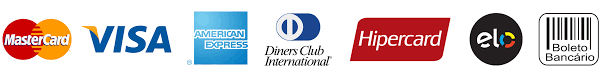
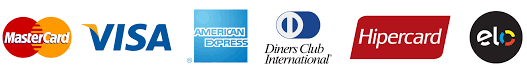
up code

diff --git a/src/useCases/sales/RegisterSale.tsx b/src/useCases/sales/RegisterSale.tsx
@@ -5,7 +5,7 @@ import { TProduct, TItens } from "../products/type/TProducts";
 import { currencyFormat } from "../../components/utils/currentFormat/CurrentFormat";
 import { Dashboard } from "../dashboard/Dashboard";
 import { postList } from "../../services/handleService";
-import api from "../../services/api/api";
+// import api from "../../services/api/api";
 
 export function RegisterSale() {
     const [product, setProduct] = useState<TItens>(
@@ -18,7 +18,7 @@ export function RegisterSale() {
     const [totalItens, setTotalItens] = useState<number>(0)
     const [statusBtnSaleSubmit, setStatusBtnSaleSubmit] = useState<"Iniciar Pedido" | "Faturar Pedido">("Iniciar Pedido");
     const [statusBtnSaveUpdate, setStatusBtnSaveUpdate] = useState<"Salvar Item" | "Atualizar Item">("Salvar Item");
-    const [itemImg, setIemImg] = useState<string>('./img/car_sale.png');
+    const [itemImg, setIemImg] = useState<string>('');
     const [itenStorage, setItenStorage] = useState<TItens[]>([]);
     const [statuStore, setStatuStore] = useState<boolean>(false)
 
@@ -43,7 +43,7 @@ export function RegisterSale() {
         product.tItem = item.amount * item.valor;
         product.image = item.image;
         if (product.image === null) {
-            setIemImg('./img/car_sale.png')
+            setIemImg('')
         } else {
             findProducts();
         }
@@ -64,7 +64,7 @@ export function RegisterSale() {
                 product.valor = prod.val_max_product;
                 product.tItem = product.valor * product.amount;
                 if (prod.image === null) {
-                    setIemImg('./img/car_sale.png')
+                    setIemImg('')
                 } else {
                     setIemImg("./img/img_itens/" + prod.image);
                 }
@@ -185,7 +185,7 @@ export function RegisterSale() {
         setStatusBtnSaleSubmit("Iniciar Pedido");
         setEditId(null);
         setPreco(0);
-        setIemImg('./img/car_sale.png')
+        setIemImg('')
     };
 
     function searchItem(e: Event) {

diff --git a/src/components/pagseguro/PagSeguroCardForm.tsx b/src/components/pagseguro/PagSeguroCardForm.tsx
@@ -3,6 +3,7 @@ import { currencyFormat } from "../utils/currentFormat/CurrentFormat";
 import { Globais } from "../globais/Globais";
 import { NavBar } from "../navbar/Navbar";
 
+import './css/styles.css'
 import '../../index'
 
 type PropsPagSeguroCardForm = {
@@ -33,6 +34,10 @@ export function PagSeguroCardForm({
             <hr></hr>
             <div id="container">
                 <form id="main-card">
+            <div>
+                <h1 id='text-center'>Cartões aceitos </h1>
+                <img id='img-band-card' src="img/band_cartao_creditos.png" alt="Cartões aceitos"></img>
+            </div>
                     <input
                         type="hidden"
                         name="public_key"
@@ -103,10 +108,7 @@ export function PagSeguroCardForm({
                     {!URLNoteSubmit ? <button className="btn btn-primary" id='m-2' onClick={handleSubmit}>Pagar</button> : null}
                     {URLNoteSubmit ? <button className="btn btn-primary" id='m-2' onClick={() => { window.location.replace(Globais.URL_NOTE + '/' + URLNoteSubmit) }}>Emitir Nota</button> : null}
                     {URLNoteSubmit ? <button className="btn btn-primary" id='m-2' onClick={() => { window.location.replace('dashboardefault') }}>Sair</button> : null}
-                    <div>
-                        <h1 id='text-center'>Cartões aceitos </h1>
-                        <img src="img/card_pag_bank.png" alt="Cartões aceitos"></img>
-                    </div>
+
                 </form>
             </div>
         </>

diff --git a/src/components/sales/RegisterSaleForm.tsx b/src/components/sales/RegisterSaleForm.tsx
@@ -43,10 +43,10 @@ export function RegisterSaleForm({
     <>
       <div id="container">
           <div id='main' >
-            <div>PDV/Store</div>
+            <label id='m-2'>PDV - Checkout de Compras</label>
             {alert && <label>{alert}</label>}
             {message &&<label>{message}</label>}
-            <img src={item_img} alt={children.descric}></img>
+            { item_img && <img src={item_img} alt='Aguardando Item'></img>}
             <p>{item}</p>
             <label>Valor Unitário</label>
             <div>

diff --git a/src/components/home/css/styles.css b/src/components/home/css/styles.css
@@ -87,12 +87,10 @@
 }
 
 #img {
-    position: relative;
-    right: 5px;
+    margin-bottom: 3px;
     width: 400px;
-    height: 300px;
-    border-radius: 3px;
-    /* border: solid 1px black; */
+    height: 306px;
+
 }
 
 #container-cards {

diff --git a/src/components/storeHome/css/footer.css b/src/components/storeHome/css/footer.css
@@ -49,10 +49,8 @@ a:hover {
 
 .footer-payment {
     cursor: pointer;
-    border: 8px solid white;
-    border-radius: 2px;
     width: 320px;
-    height: 55px;
+    height: 46px;
 }
 
 .maps {

diff --git a/src/components/pagseguro/css/styles.css b/src/components/pagseguro/css/styles.css
@@ -1,0 +1,3 @@
+#img-band-card{
+    width: 100%;
+}
